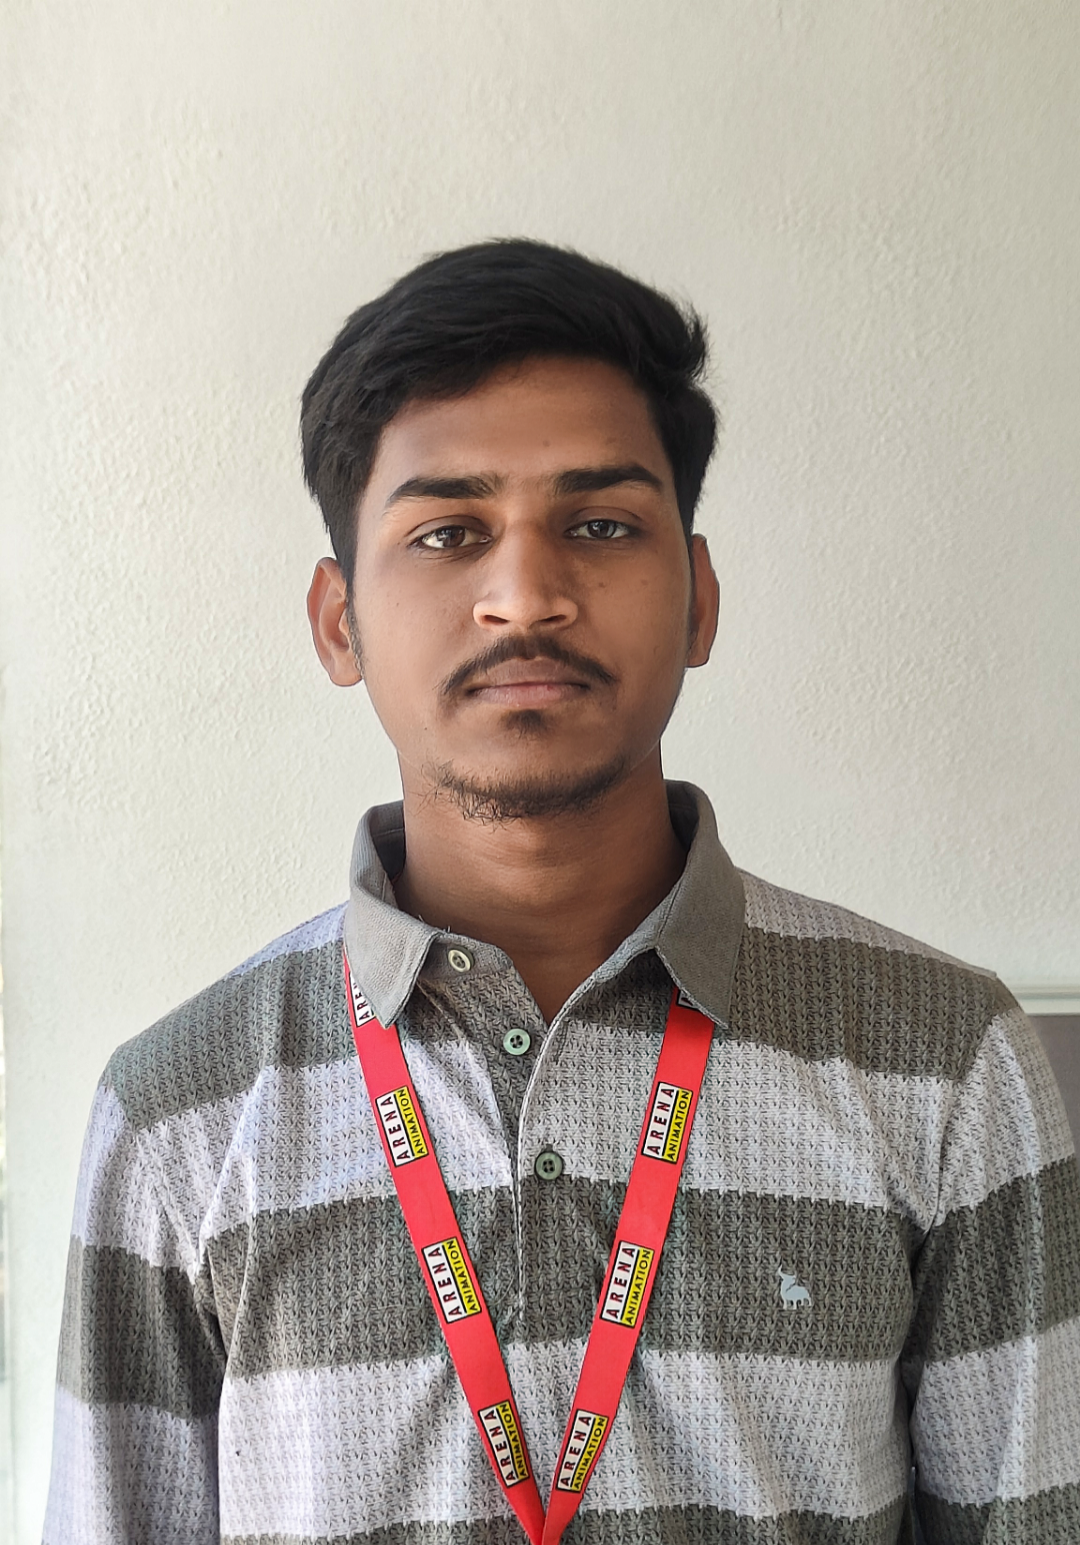
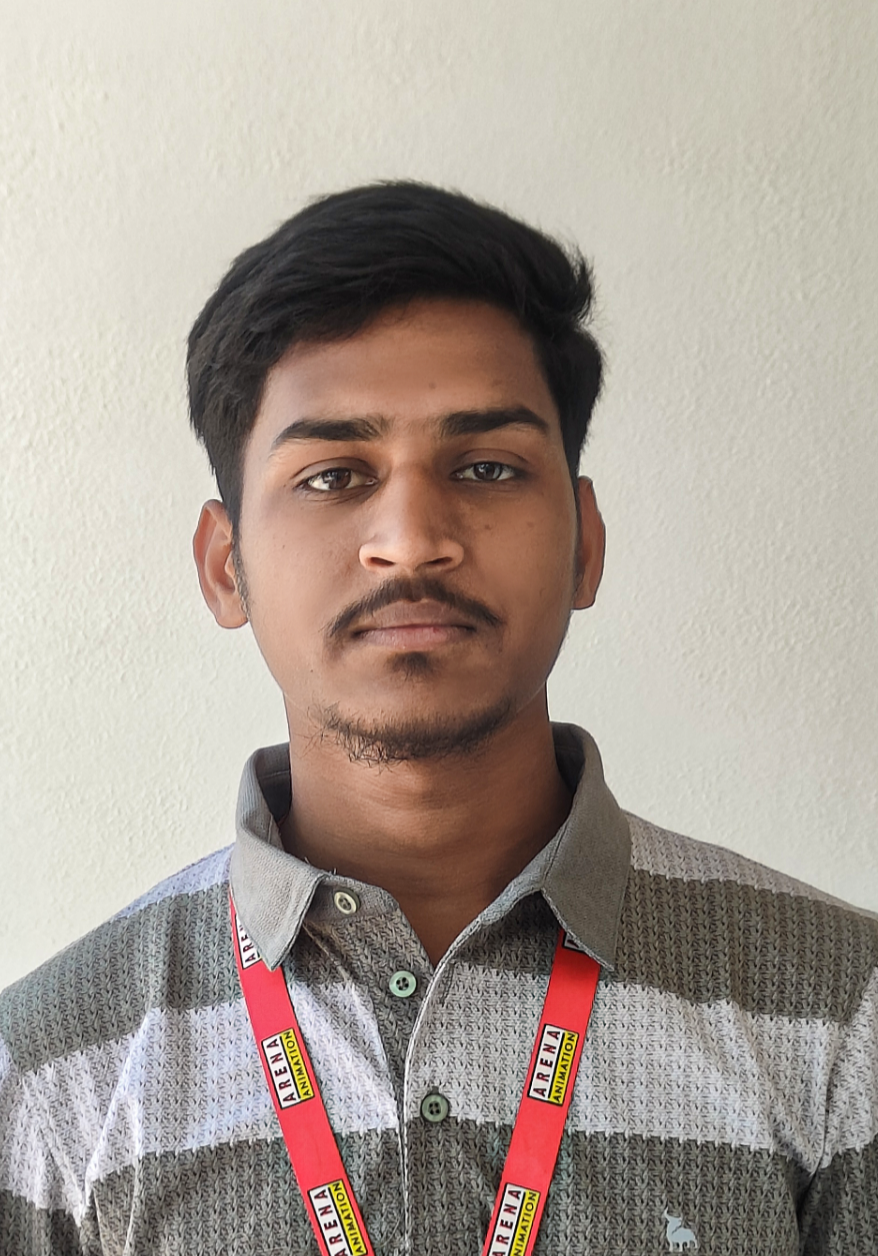
add

diff --git a/index.html b/index.html
@@ -42,7 +42,7 @@
             <div class="profile-content firstprofile">
                 <!-- thumbnail -->
                 <div class="thumbnail">
-                    <img src="Asset/about-profile.png" alt="" class="profile-img" />
+                    <img src="Asset/about-profile-header.png" alt="" class="profile-img" />
                 </div>
 
                 <!-- profile right -->

diff --git a/script.js b/script.js
@@ -257,7 +257,7 @@ let loaderPage = document.querySelector('.loader');
 
 setTimeout(() => {
 
-    loaderPage.style.top = "-100%"
+    loaderPage.style.visibility = "hidden"
 
 }, randomTime);
 

diff --git a/style.css b/style.css
@@ -97,6 +97,7 @@ body {
     width: 200px;
     height: 200px;
     object-fit: cover;
+    object-position: top;
     outline: 4px solid #fff;
     position: absolute;
     left: 15px;

diff --git a/quary.css b/quary.css
@@ -46,6 +46,10 @@
         z-index: 111;
     }
 
+    .container {
+        margin-top: 10vh;
+    }
+
     /* first profile */
     .firstprofile {
         border-right: none;
